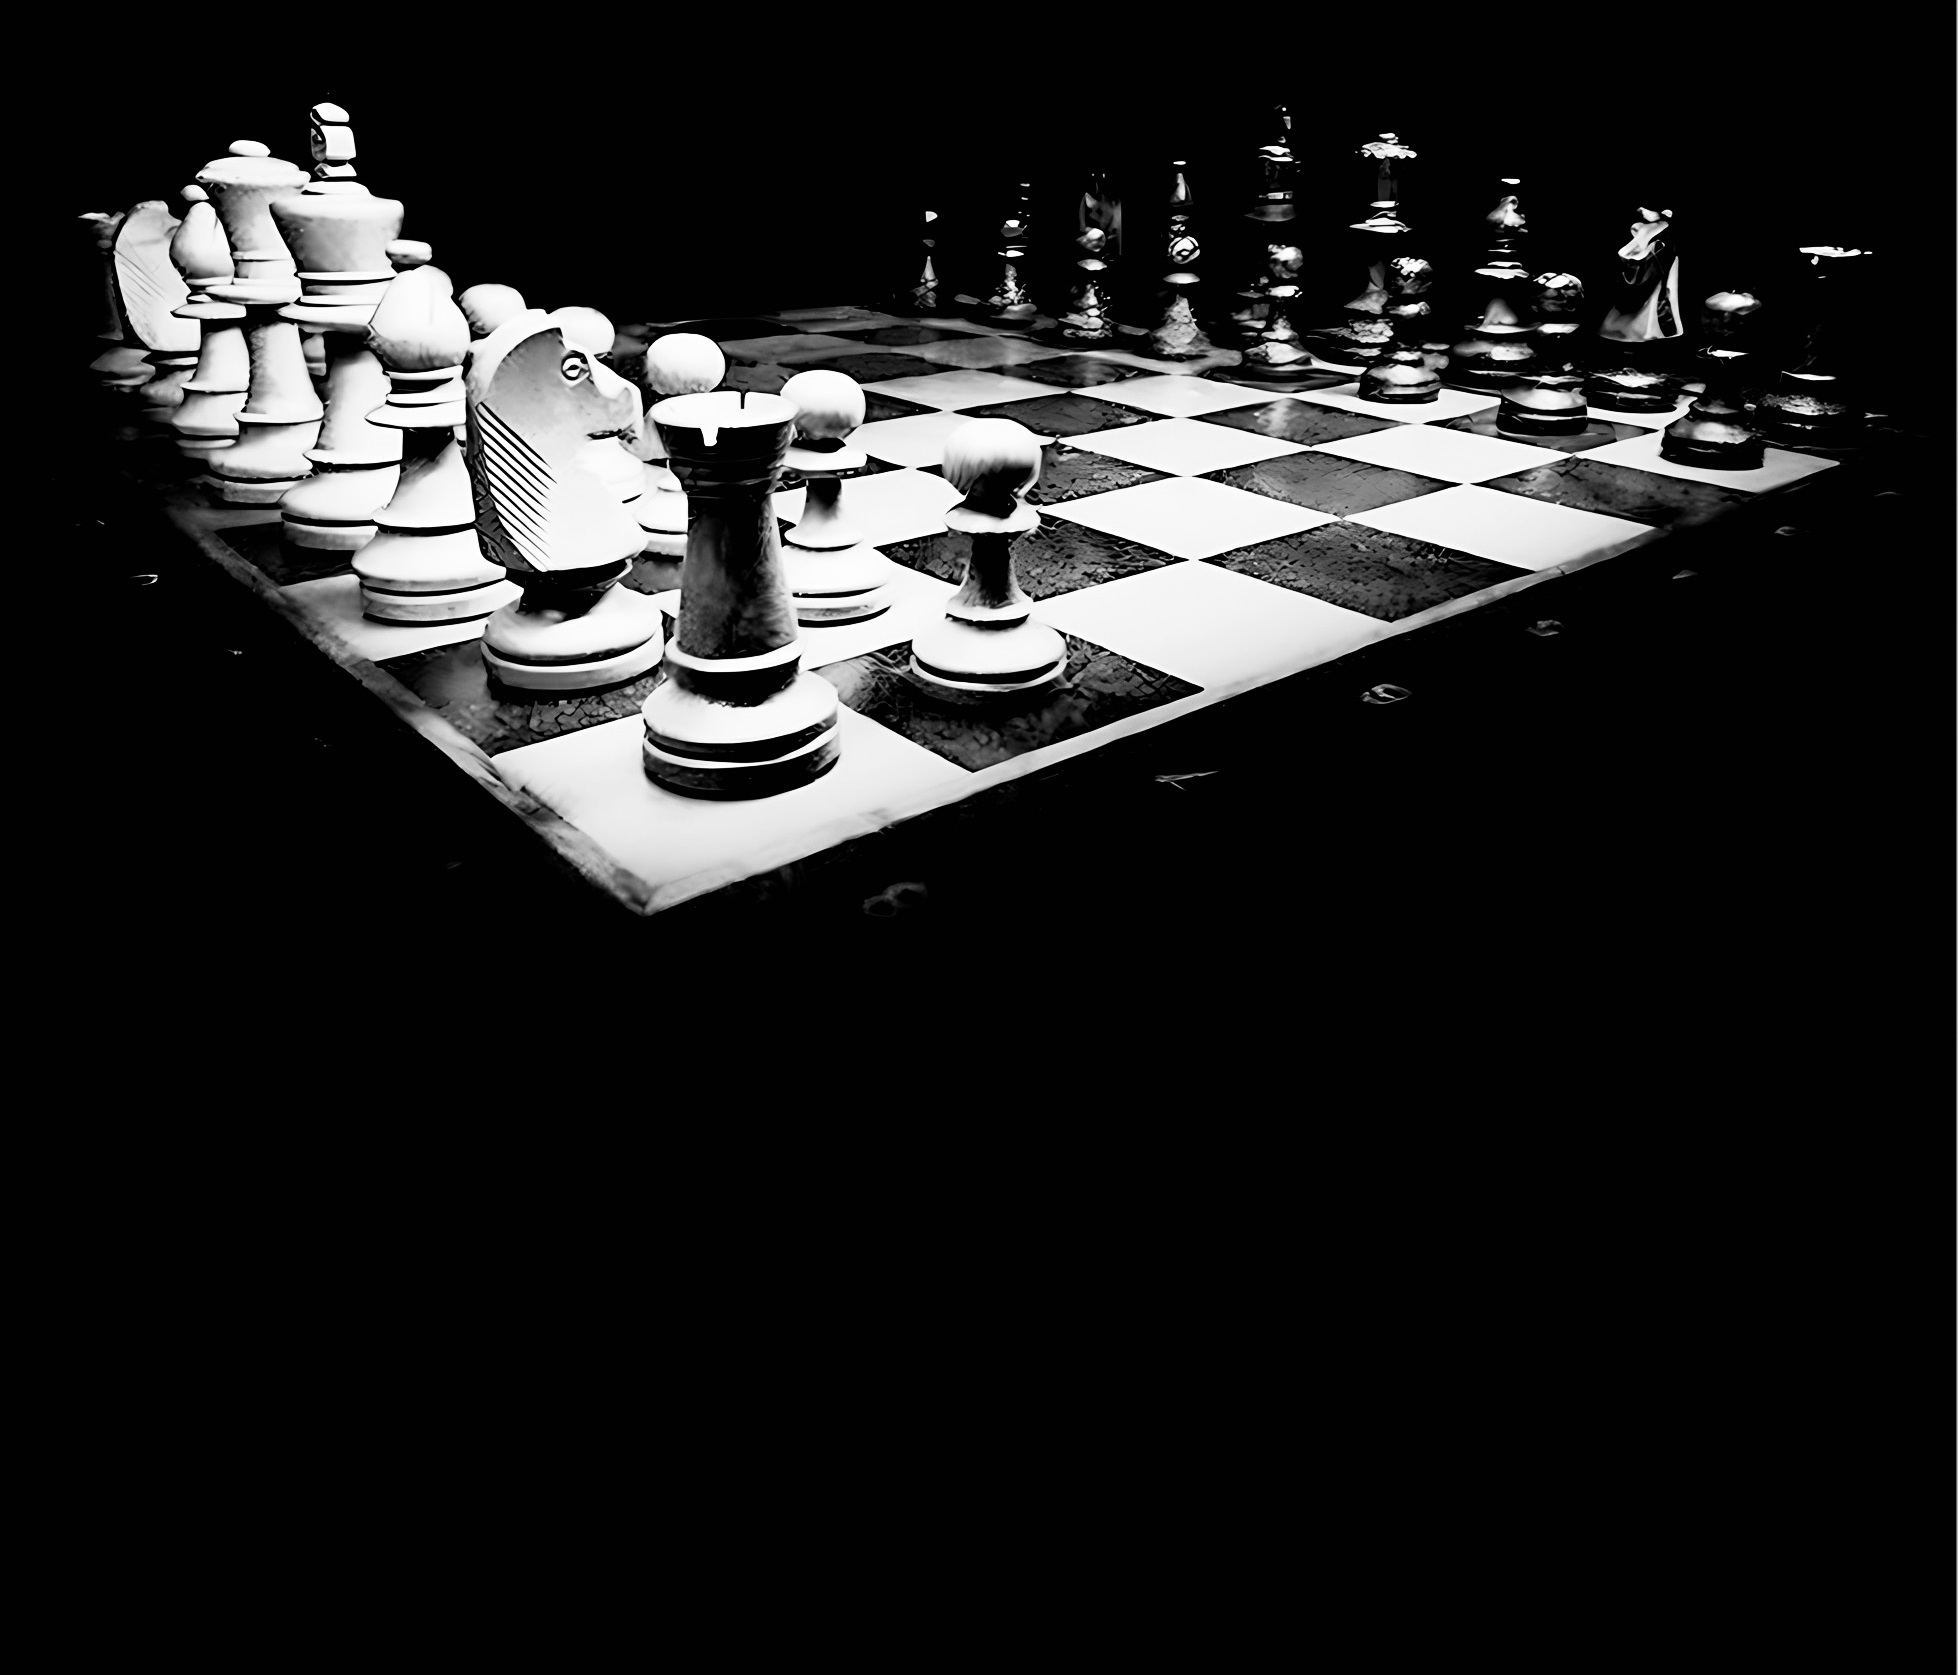
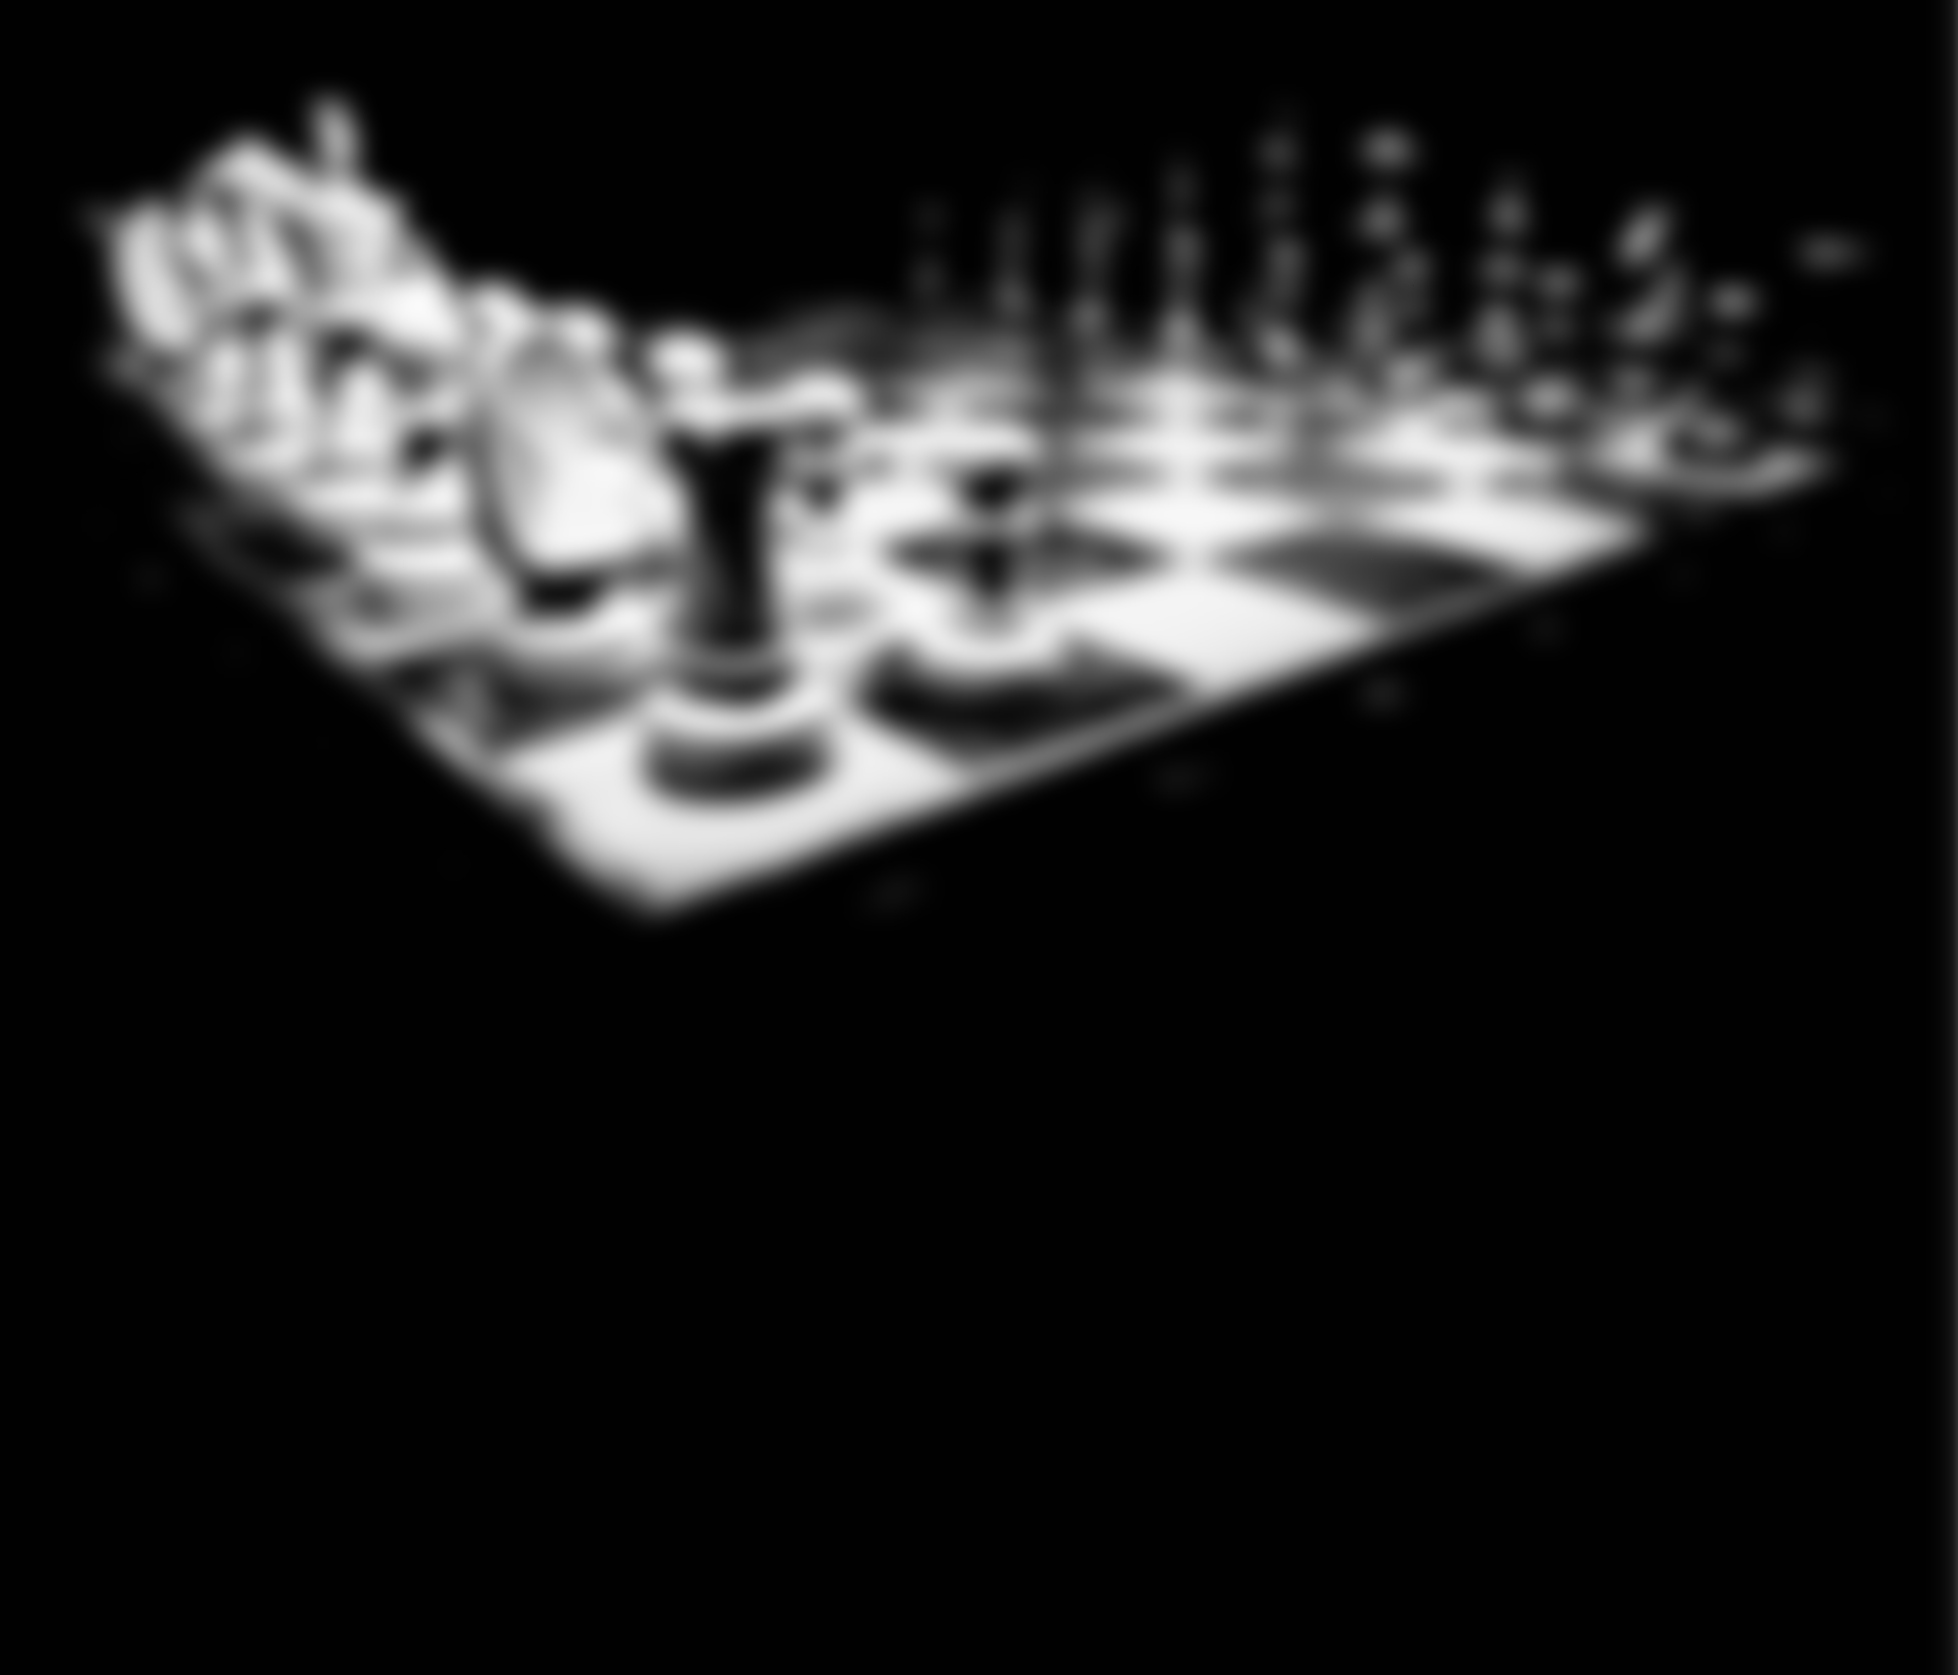
1. hover Queen 2. Start msg added 3. changed size of groupImg

Changed region(s): [[0.0312, 0.031, 0.9346, 0.5588], [0.9969, 0.0, 1.0, 1.0], [0.9035, 0.1242, 0.9658, 0.1552]]

diff --git a/src/Homepage.css b/src/Homepage.css
@@ -3,8 +3,8 @@
   }*/
   
   .homepageArea{
-    /*border:1px #aaa;*/
     min-height:90vh;
+    overflow:hidden;
   }
 
   .txtTitle {
@@ -19,6 +19,12 @@
     margin-left: auto;
     margin-right: auto; 
     padding-top: 20px;
+    margin-top: 30px;
+  }
+
+  .backgdImg {
+    backdrop-filter: blur(10px);
+    overflow:hidden;
   }
 
   .txtStart {
@@ -32,26 +38,8 @@
     position: relative;
     left: 0px; ; top:200px;
   }
-
-  .txtPresentedBy {
-    color: #fff;
-    position: absolute;
-    bottom: 15px;
-    right: 24px;
-    padding-bottom: 10px;
-    padding-right: 10px;
-    font-size: larger;
-
-  }
-
-  .center {
-    margin: auto;
-    width: 50%;
-    border: 3px solid green;
-    padding: 10px;
-  }
     
-  .clsQueen {
+  /*.clsQueen {
     position: absolute;
     bottom: 15px;
     right: 24px;
@@ -76,6 +64,34 @@
     80%  {right:0px; top:150px;}
     85%  {right:0px; top:120px;}
     100%  {right:0px; top:100px;}
+  }*/
+
+  .clsQueen {
+    position: absolute;
+    right: 24px;
+    padding-bottom: 10px;
+    padding-right: 42%;
+    top: 80%;
+	  margin:20px;
+    -webkit-transition: margin 2s ;
+    -moz-transition: margin 2s ;
+    -o-transition: margin 2s ;
+    overflow:hidden;
+    
+  }
+
+  .clsQueen:hover {
+    cursor:pointer;
+    margin-top: -300px; 
+  }
+
+  .startMsg {
+    color: #b48608; 
+    font-family: 'Times new roman', serif; 
+    font-size: 20px; 
+    text-align: center;
+    padding-top: 21px;
+    padding: 20px;
   }
     
     

diff --git a/src/Homepage.js b/src/Homepage.js
@@ -18,19 +18,20 @@ function Homepage() {
   };
 
   return (
-
-    <div style={{ backgroundImage: `url(${background})` }} width="500" height="500">
-      <div className="container-fluid homepageArea">
-        <img src={groupNumber} className="imgGroupNumber" width="250" height="130"/>
-          <div class="clsQueen">
-              <img src={template} onClick={handleClick} alt="Queen" width="200" height="300"/>
-          </div>
+    <div>
+      <div className="backgdImg" style={{ backgroundImage: `url(${background})`}} width="500" height="500">
+        <div className="container-fluid homepageArea">
+          <img src={groupNumber} className="imgGroupNumber" width="150" height="70"/>
+            <div class="clsQueen">
+                <img src={template} onClick={handleClick} alt="Queen" width="200" height="300"/>
+            </div>
+        </div>
       </div>
+      <div className="startMsg"> Please click on the Queen to Start </div>
     </div>
   );
 }
 
-//<div className="txtPresentedBy"> By Group Number One </div>
 //<div className="txtTitle"> Welcome to N-Queen Problem Solution </div>
 //<div className="txtStart"> Please click on the Queen to Start </div>
 
